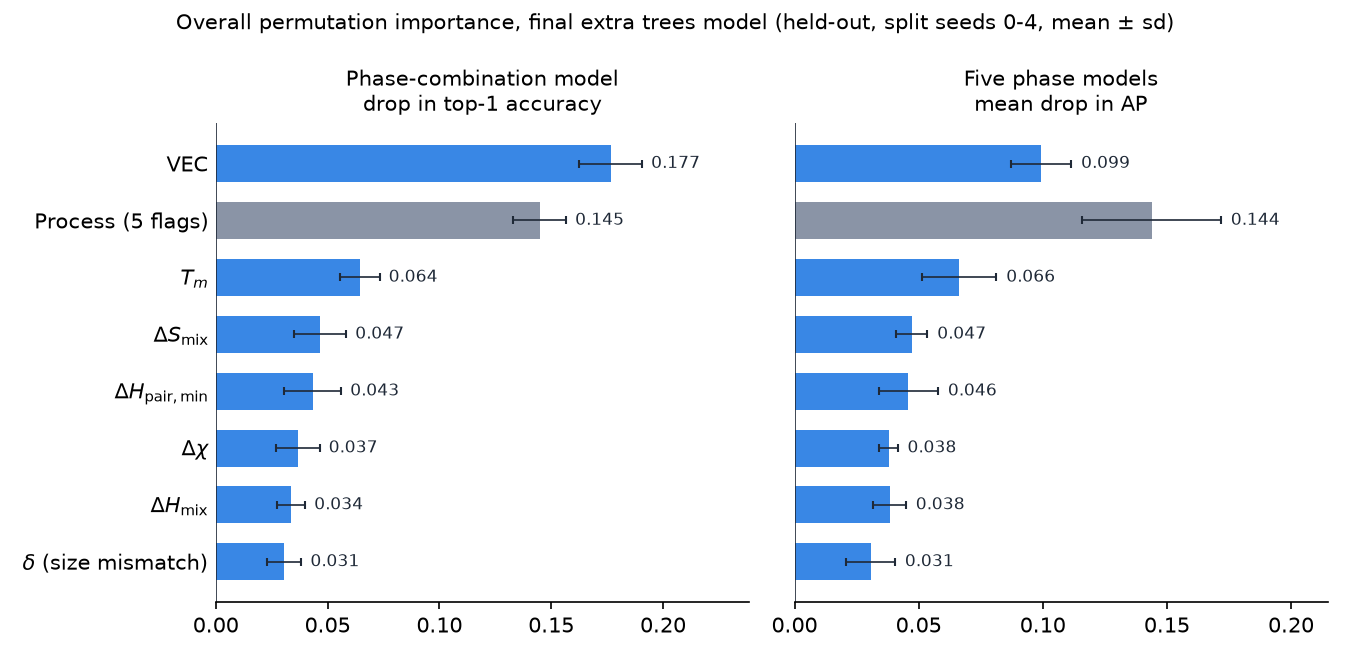
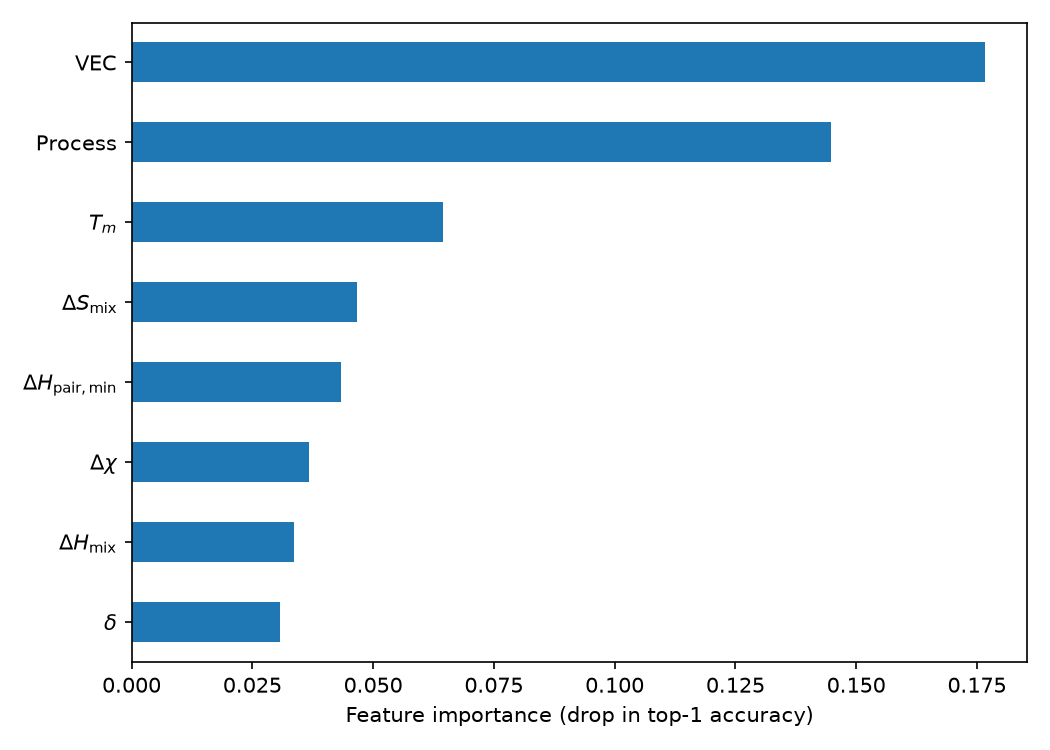
Plot overall importance as a single sorted bar chart
Claude-Session: https://claude.ai/code/session_01HQSP1tEbtQ1M4mEciaYxN7

Changed region(s): [[0.0305, 0.0, 0.9752, 0.9697], [0.9143, 0.303, 0.9448, 0.3636]]

diff --git a/research/importance_overall.py b/research/importance_overall.py
@@ -120,35 +120,21 @@ summary = pd.DataFrame({
 }).sort_values("combo_top1_drop", ascending=False)
 print(summary.round(3))
 
-names = {
-    "delta": r"$\delta$ (size mismatch)",
+symbols = {
+    "delta": r"$\delta$",
     "delta_H": r"$\Delta H_{\mathrm{mix}}$",
     "delta_S": r"$\Delta S_{\mathrm{mix}}$",
-    "mean_valence_electrons": "VEC",
-    "mean_melting_point": r"$T_m$",
     "delta_chi": r"$\Delta\chi$",
+    "mean_valence_electrons": "VEC",
+    "mean_melting_point": r"$T_{m}$",
     "h_min_pair": r"$\Delta H_{\mathrm{pair,min}}$",
-    "Process": "Process (5 flags)",
+    "Process": "Process",
 }
-order = summary.index[::-1]
-fig, axes = plt.subplots(1, 2, figsize=(9, 4.4), sharey=True)
-panels = [
-    ("combo_top1_drop", "combo_sd", "Phase-combination model\ndrop in top-1 accuracy"),
-    ("phase_mean_ap_drop", "phase_sd", "Five phase models\nmean drop in AP"),
-]
-for ax, (col, sd, title) in zip(axes, panels):
-    colors = ["#8a94a6" if n == "Process" else "#3987e5" for n in order]
-    ax.barh(range(len(order)), summary.loc[order, col], xerr=summary.loc[order, sd], color=colors,
-            height=0.65, error_kw={"ecolor": "#1f2937", "elinewidth": 0.8, "capsize": 2})
-    for i, v in enumerate(summary.loc[order, col]):
-        ax.text(max(v, 0) + summary.loc[order, sd].iloc[i] + 0.004, i, f"{v:.3f}", va="center", fontsize=8, color="#1f2937")
-    ax.set_title(title, fontsize=10)
-    ax.axvline(0, color="#1f2937", linewidth=0.8)
-    ax.set_xlim(min(0, summary[col].min() - 0.01), (summary[col] + summary[sd]).max() * 1.25)
-    ax.tick_params(axis="y", length=0)
-    for sp in ["top", "right", "left"]:
-        ax.spines[sp].set_visible(False)
-axes[0].set_yticks(range(len(order)), [names[n] for n in order])
-fig.suptitle("Overall permutation importance, final extra trees model (held-out, split seeds 0-4, mean ± sd)", fontsize=10)
-fig.tight_layout()
-fig.savefig("research/feature_importance_overall.png", dpi=150)
+
+top = summary["combo_top1_drop"].sort_values()
+top.index = [symbols.get(c, c) for c in top.index]
+plt.figure(figsize=(7, 5))
+top.plot.barh()
+plt.xlabel("Feature importance (drop in top-1 accuracy)")
+plt.tight_layout()
+plt.savefig("research/feature_importance_overall.png", dpi=150)

diff --git a/README.md b/README.md
@@ -66,7 +66,7 @@ The figure shows the same values as the table. Rows are the seven descriptors, l
 - **The two enthalpy descriptors overlap.** Delta H mix mattered for Laves in the random forest (0.18 in the previous version of this table) but contributes little in the final model (0.01).
 - Correlated descriptors share importance, so a low value does not prove a feature is unimportant. The values come from one split seed.
 
-**Overall importance.** To see which input dominates across all phases, `research/importance_overall.py` repeats the permutation test on split seeds 0 to 4 for two views of the final model: the phase-combination model (drop in alloy-level top-1 accuracy, base 0.712) and the five phase models (drop in AP, averaged over the phases). Seed 0 reproduces the table above exactly.
+**Overall importance.** To see which input dominates across all phases, `research/importance_overall.py` repeats the permutation test on split seeds 0 to 4. The figure shows the phase-combination model, which predicts the whole phase set at once: the drop in alloy-level top-1 accuracy (base 0.712), averaged over the five seeds. The script also prints the drop in AP averaged over the five phase models, and its seed 0 values reproduce the table above exactly.
 
 ![Overall permutation importance of the final model](research/feature_importance_overall.png)
 
@@ -179,7 +179,7 @@ cleaned_data.csv --> train_final.py --> model.joblib --> app.py
 | `research/label.py` | Splits the microstructure string into binary phase labels |
 | `research/modelling.py` | 3-class baseline with grouped cross-validation, and impurity importances of the 3-class random forest |
 | `research/modelling_multilabel.py` | Multi-label evaluation: per-phase AP for the baseline models, the random forest vs extra trees and `h_min_pair` comparison, class weighting and calibration of the final model, permutation importance of the seven descriptors and the processing flags, and `research/feature_importance.png`, and phase-combination accuracy and calibration |
-| `research/importance_overall.py` | Overall permutation importance across all phases (combination model and phase-averaged), split seeds 0 to 4, and `research/feature_importance_overall.png` |
+| `research/importance_overall.py` | Overall permutation importance across all phases (combination model and phase-averaged), split seeds 0 to 4, and the bar chart `research/feature_importance_overall.png` |
 | `research/leakage.py` | Random vs composition-grouped cross-validation for the per-phase and combination random forests, writes `leakage_results.csv` |
 | `research/calibration.py` | Reliability curves, Brier score and ECE of the per-phase forests (balanced and unweighted, with and without sigmoid and isotonic calibration), and the reliability figure |
 | `featurize.py` | Computes the same descriptors for a single composition typed into the app |
